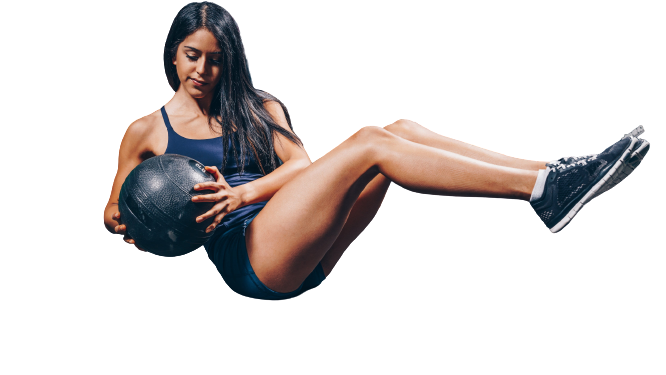
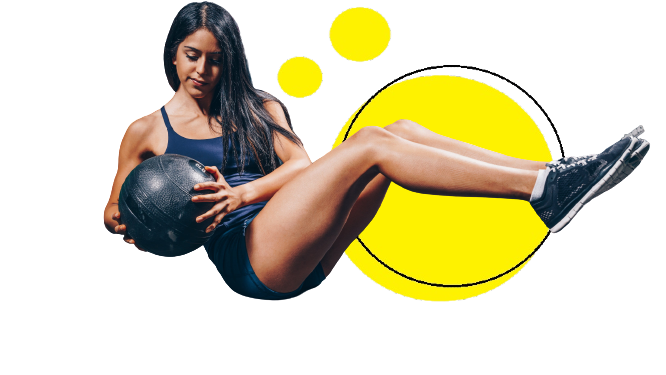
cuarto commit

diff --git a/src/components/planes/Planes.jsx b/src/components/planes/Planes.jsx
@@ -1,0 +1,45 @@
+import './Style.css';
+import React from 'react';
+import Card from 'react-bootstrap/Card';
+import ListGroup from 'react-bootstrap/ListGroup';
+
+function Planes() {
+    return(
+        <section className='planes-container'>
+            <Card style={{ width: '25rem' }}>
+                <Card.Header>Plan Básico</Card.Header>
+                <ListGroup variant="flush">
+                    <ListGroup.Item>item 1</ListGroup.Item>
+                    <ListGroup.Item>item 2</ListGroup.Item>
+                    <ListGroup.Item>item 3</ListGroup.Item>
+                    <ListGroup.Item>item 4</ListGroup.Item>
+                    <ListGroup.Item>item 5</ListGroup.Item>
+                </ListGroup>
+                <Card.Link href="#">Contratar</Card.Link>
+            </Card>
+            <Card style={{ width: '27rem' }}>
+                <Card.Header>Plan Intermedio</Card.Header>
+                <ListGroup variant="flush">
+                    <ListGroup.Item>item 1</ListGroup.Item>
+                    <ListGroup.Item>item 2</ListGroup.Item>
+                    <ListGroup.Item>item 3</ListGroup.Item>
+                    <ListGroup.Item>item 4</ListGroup.Item>
+                    <ListGroup.Item>item 5</ListGroup.Item>
+                </ListGroup>
+                <Card.Link href="#">Contratar</Card.Link>
+            </Card>
+            <Card style={{ width: '25rem' }}>
+                <Card.Header>Plan Avanzado</Card.Header>
+                <ListGroup variant="flush">
+                    <ListGroup.Item>item 1</ListGroup.Item>
+                    <ListGroup.Item>item 2</ListGroup.Item>
+                    <ListGroup.Item>item 3</ListGroup.Item>
+                    <ListGroup.Item>item 4</ListGroup.Item>
+                    <ListGroup.Item>item 5</ListGroup.Item>
+                </ListGroup>
+                <Card.Link href="#">Contratar</Card.Link>
+            </Card>
+        </section>
+    )
+}
+export default Planes

diff --git a/src/components/after-hero/Style.css b/src/components/after-hero/Style.css
@@ -1,15 +1,24 @@
 .after-hero-section {
-    height: 800px;
+    height: 560px;
 }
 .after-hero-titulo {
     display: flex;
     flex-direction: column;
     align-items: center;
-    justify-content: space-evenly;
-    height: 200px;
+    height: 180px;
+}
+.after-hero-titulo > h1 {
+    margin: 2rem 0 0.5rem;
+}
+.after-hero-titulo > h4 {
+    margin: 0;
+    font-style: italic;
+}
+.after-hero-titulo > p {
+    color: grey;
 }
 .after-hero-contenedor {
-    height: 50%;
+    height: 380px;
     display: flex;
     margin-top: 1rem;
     align-items: center;
@@ -29,7 +38,7 @@
     align-items:flex-start;
 }
 .segundo-articulo {
-    margin-left: 3rem;
+    margin-left: 4rem;
 }
 .after-hero-contenedor-der-articulo {
     display: flex;
@@ -39,16 +48,16 @@
 
 .after-hero-icon {
     position: absolute;
-    left: -70px;
-    top: auto;
+    left: -67px;
+    top: -10px;
     padding: 1rem;
-    font-size: 3rem;
+    font-size: 5rem;
     border-radius: 50%;
     background-color: yellow;
     z-index: 2;
 }
 .after-hero-contenedor-der-articulo > p {
-    padding: 1rem 1rem;
+    padding: 1rem 1.5rem;
     background-color: lightyellow;
     border-top-right-radius: 45px;
     border-bottom-right-radius: 45px;

diff --git a/src/components/hero/Hero.jsx b/src/components/hero/Hero.jsx
@@ -3,7 +3,6 @@ import logo from '../../imagenes/housetenia-logo-black-sinfondo.jpg';
 import gimnasta from '../../imagenes/pexels-anush-gorak-1431282-removebg.jpg';
 import {AiOutlineDown} from 'react-icons/ai';
 import {FaSearchengin} from 'react-icons/fa';
-import Button from 'react-bootstrap/Button';
 import React, { useEffect, useRef } from 'react';
 
 function Hero() {
@@ -52,7 +51,7 @@ function Hero() {
                 <p>TU CUERPO</p>
                 <p>Bienvenido a nuestro equipo de entrenamiento personalizado. Juntos, alcanzaremos tus metas de acondicionamiento físico con un programa adaptado a tus necesidades y objetivos.</p>
                 <p>¡Comencemos esta emocionante travesía hacia un nuevo tú!</p>
-                <Button className='hero-btn'>EMPEZÁ HOY</Button>
+                <button className='hero-btn'>EMPEZÁ HOY</button>
             </div>
             <div className='hero-derecho'>
                 <div ref={heroImgRef}className='hero-img-container'>

diff --git a/src/components/after-hero/Afterhero.jsx b/src/components/after-hero/Afterhero.jsx
@@ -9,7 +9,7 @@ function Afterhero() {
     return(
         <section className='after-hero-section'>
             <div className='after-hero-titulo'>
-                <h2>ENTRENADOR PERSONAL</h2>
+                <h1>ENTRENADOR PERSONAL</h1>
                 <h4>PASIÓN POR LA SALUD Y EL FITNESS</h4>
                 <p>Tu aliado valioso para buscar mejorar tu bienestar físico y alcanzar tu máximo potencial</p>
             </div>
@@ -28,7 +28,7 @@ function Afterhero() {
                     </div>
                     <div className='after-hero-contenedor-der-articulo'>
                         <CgGym className='after-hero-icon' />
-                        <p>Entrena donde querés</p>
+                        <p>Entrena donde gustes</p>
                     </div>
                 </div>
             </div>

diff --git a/src/index.js b/src/index.js
@@ -3,13 +3,15 @@ import ReactDOM from 'react-dom/client';
 import './index.css';
 import Hero from './components/hero/Hero.jsx';
 import Afterhero from './components/after-hero/Afterhero';
-
+import Planes from './components/planes/Planes';
+import 'bootstrap/dist/css/bootstrap.min.css';
 
 const root = ReactDOM.createRoot(document.getElementById('root'));
 root.render(
   <React.StrictMode>
     <Hero />
     <Afterhero />
+    <Planes />
   </React.StrictMode>
 );
 

diff --git a/src/components/planes/Style.css b/src/components/planes/Style.css
@@ -1,0 +1,7 @@
+.planes-container {
+    height: 500px;
+    background-color: black;
+    display: flex;
+    align-items: center;
+    justify-content: space-evenly;
+}
